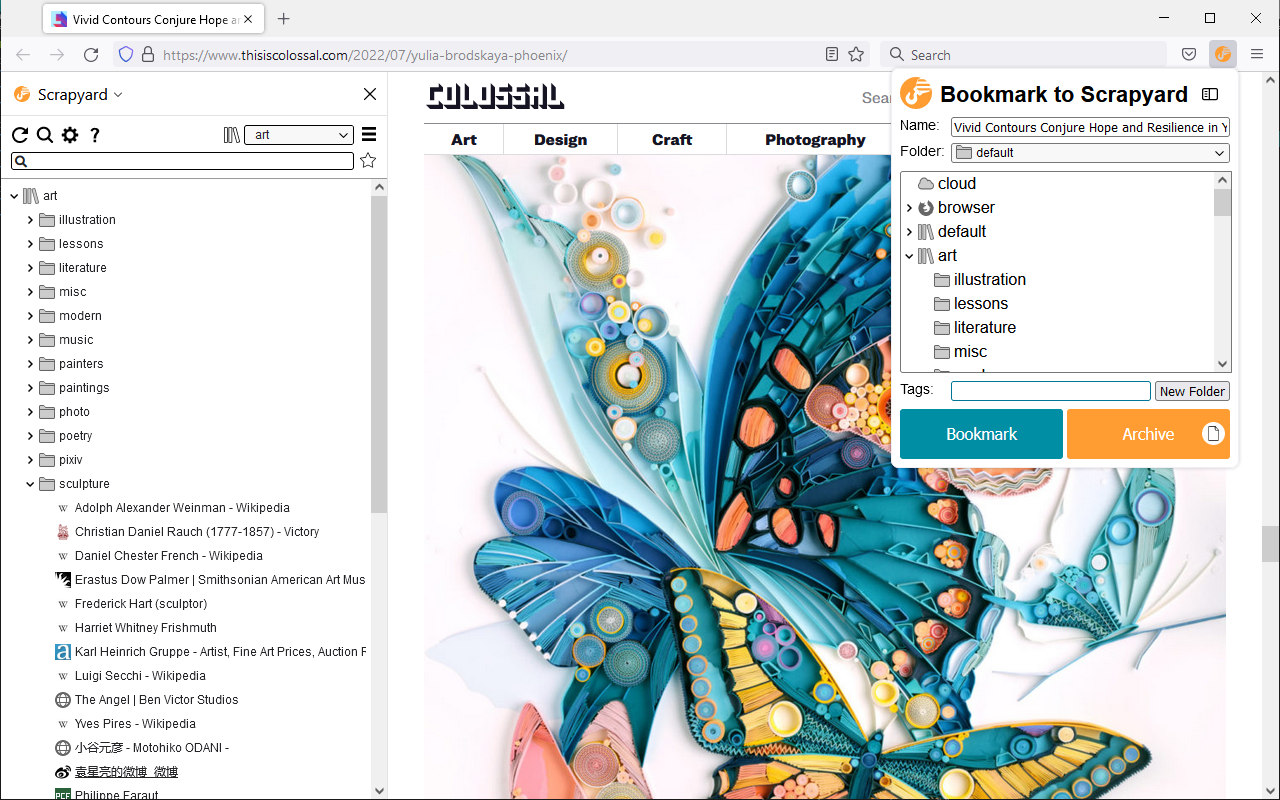
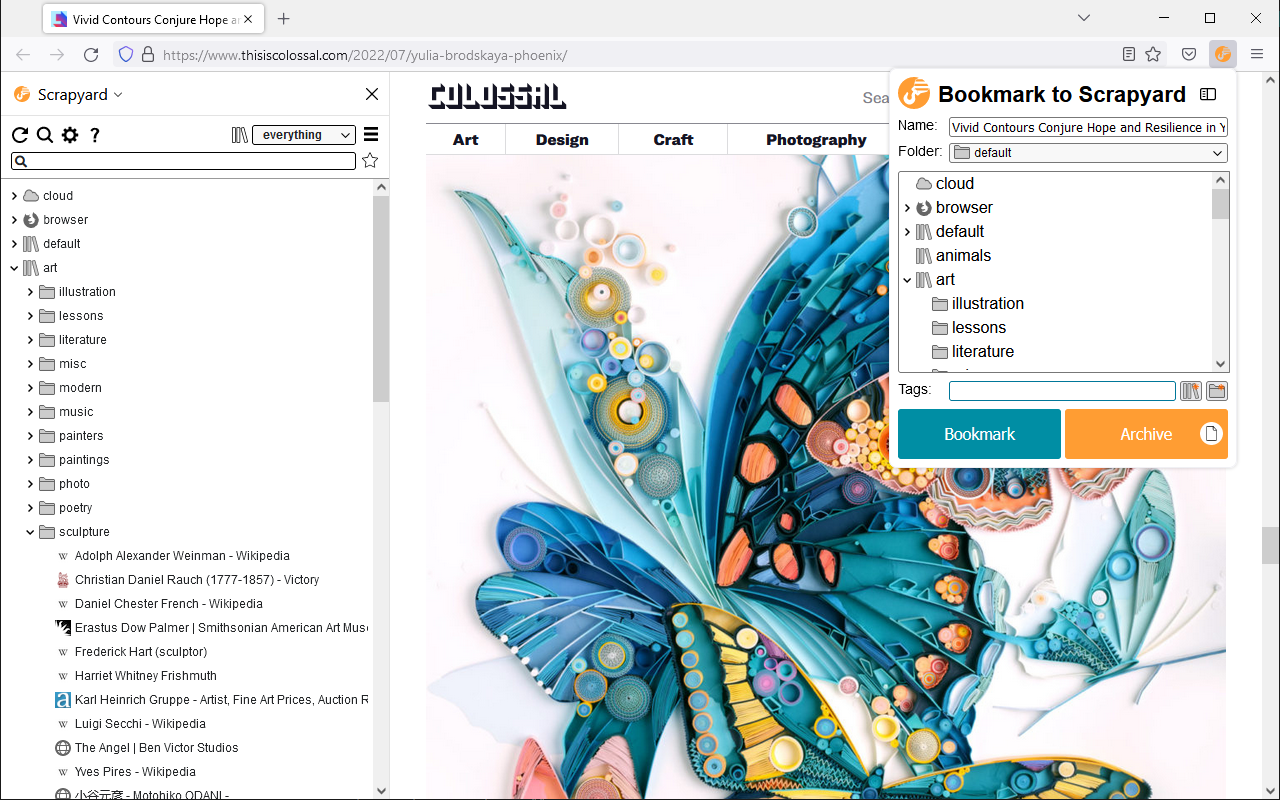
fixed folder sorting through context menu

diff --git a/addon/ui/tree.js b/addon/ui/tree.js
@@ -32,7 +32,7 @@ import {
     BROWSER_EXTERNAL_TYPE,
     FILES_EXTERNAL_TYPE,
     FILES_EXTERNAL_ROOT_PREFIX,
-    NODE_TYPE_FILE, CHROME_BOOKMARK_UNFILED, CHROME_BOOKMARK_TOOLBAR
+    NODE_TYPE_FILE, CHROME_BOOKMARK_UNFILED, CHROME_BOOKMARK_TOOLBAR, byContainer
 } from "../storage.js";
 import {getThemeVar, isElementInViewport} from "../utils_html.js";
 import {getActiveTabFromSidebar, openContainerTab, openPage, showNotification} from "../utils_browser.js";
@@ -931,6 +931,7 @@ class BookmarkTree {
                 action: () => {
                     let jchildren = ctxJNode.children.map(c => tree.get_node(c));
                     jchildren.sort((a, b) => a.text.localeCompare(b.text));
+                    jchildren.sort((a, b) => byContainer(o(a), o(b)));
                     ctxJNode.children = jchildren.map(c => c.id);
 
                     tree.redraw_node(ctxJNode, true, false, true);

diff --git a/addon/storage.js b/addon/storage.js
@@ -225,6 +225,13 @@ export function byDateAddedAsc(a, b) {
     return 0;
 }
 
+export function byContainer(a, b) {
+    const ac = isContainerNode(a)? 0: 1;
+    const bc = isContainerNode(b)? 0: 1;
+
+    return ac - bc;
+}
+
 export const JSON_SCRAPBOOK_FORMAT = "JSON Scrapbook";
 export const JSON_SCRAPBOOK_VERSION = 1;
 export const JSON_SCRAPBOOK_SHELVES = "shelves";
